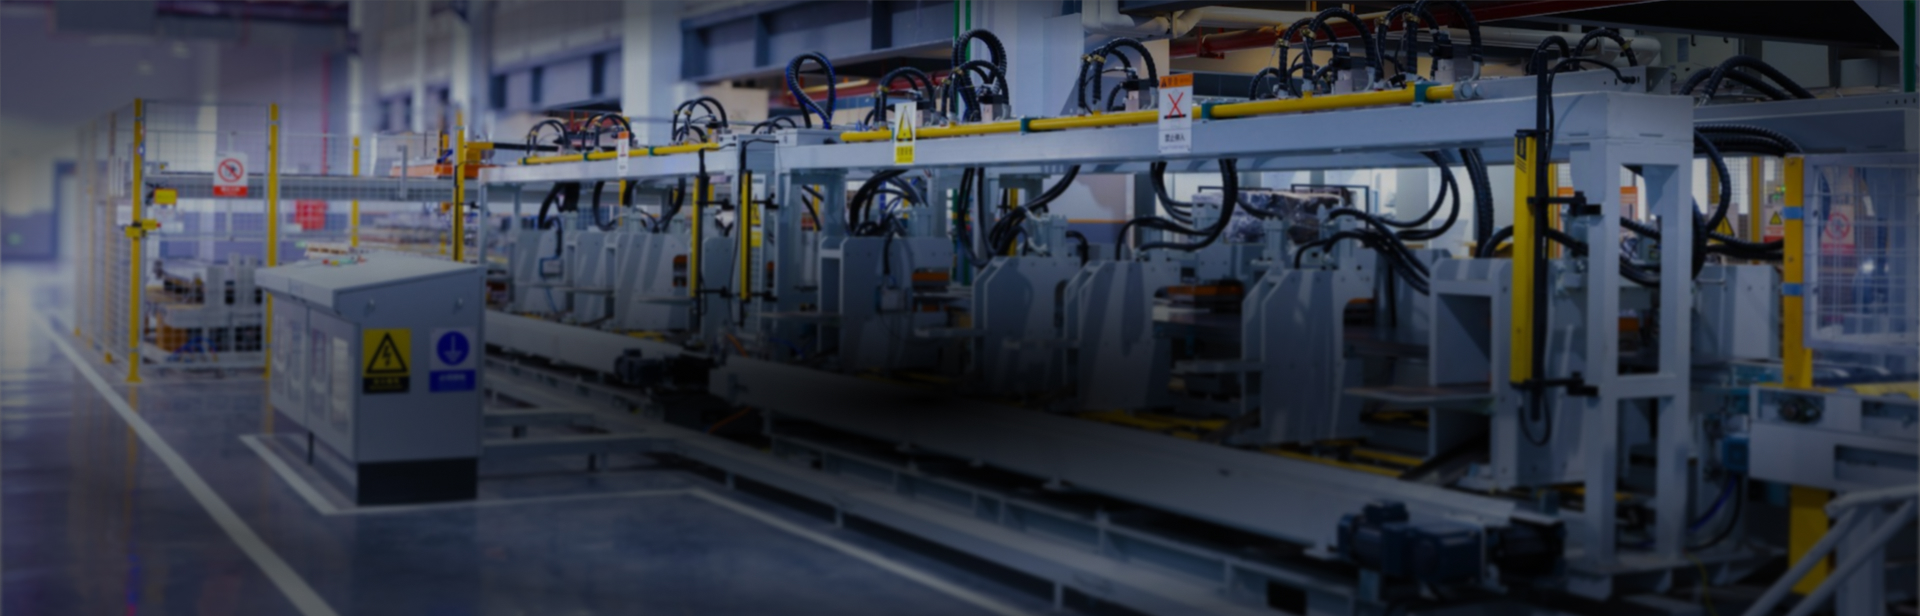
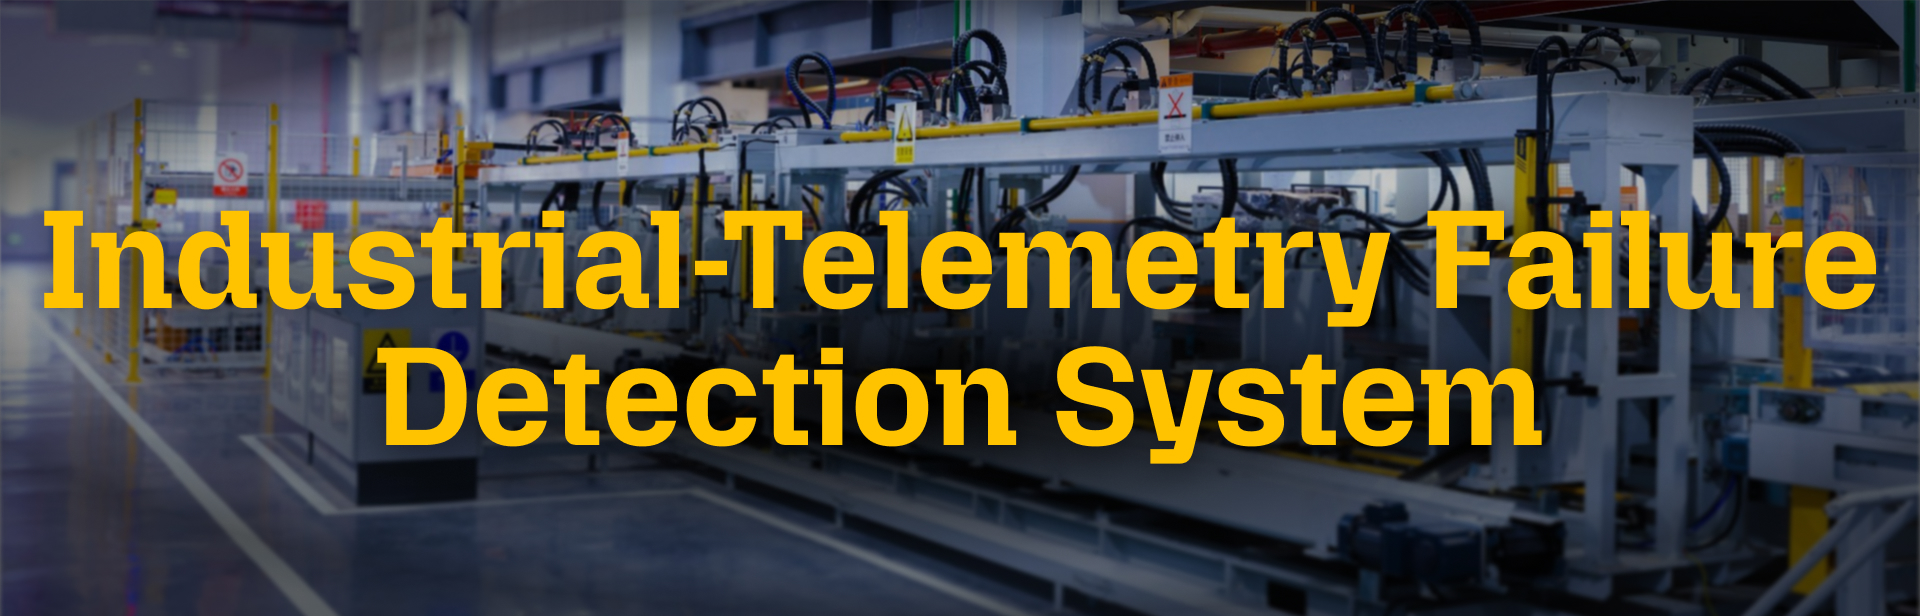
updated cover image

Changed region(s): [[0.0, 0.3393, 1.0, 0.5552], [0.1875, 0.5552, 0.8125, 0.7711]]

diff --git a/industrial-telemetry-replay-cpp/README.md b/industrial-telemetry-replay-cpp/README.md
@@ -2,7 +2,7 @@
 
 A fast, high-performance C++17 command-line application that analyzes industrial machine telemetry data from CSV, calculates real-time health scores, detects failure conditions, and outputs results to CSV. Processes 10,000 records in **milliseconds**.
 
-<img src="cover.jpg" alt="Project" width="100%">
+<img src="images/cover.jpg" alt="Project" width="100%">
 
 ## Project Overview
 
